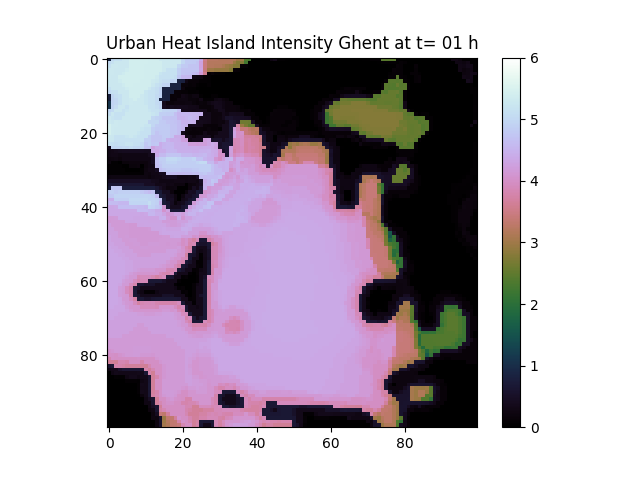
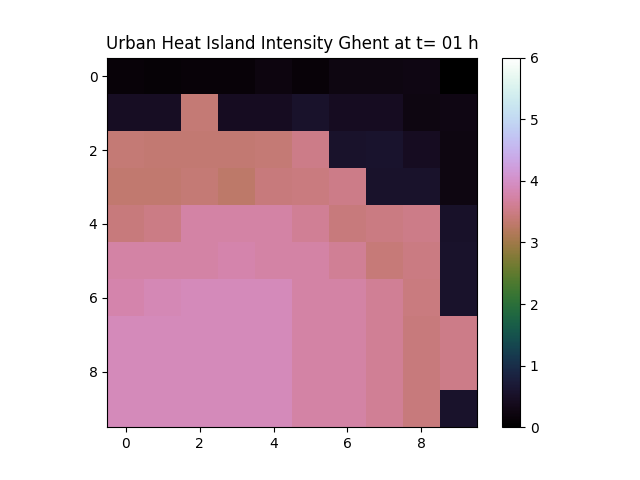
reducing image size for faster result

diff --git a/back_end/Demo_Code.py b/back_end/Demo_Code.py
@@ -23,7 +23,7 @@ subdirectory_name = "plots"
 subdirectory_path = os.path.join(current_directory, subdirectory_name)
 
 # Example usage
-image_path = os.path.join(subdirectory_path , "test_small.jpg")  # Replace with your PNG image path
+image_path = os.path.join(subdirectory_path , "test_smallv2.jpg")  # Replace with your PNG image path
 matrix = functions.png_to_matrix(image_path)   
 #cmap=functions.create_green_to_blue_cmap()
 #plt.figure()
@@ -35,8 +35,8 @@ fracs = functions.count_value_in_kernel2(matrix, 40)
 #%%
 
 
-rows = 100 
-cols = 100
+rows = 10 
+cols = 10
 
 col_to_keep = ['ALT', 'WATER', 'GREEN', 'IMPERVIOUS', 'WATER_1000', 'GREEN_1000',
        'IMPERVIOUS_1000', 'SHORT_WAVE_FROM_SKY_1HOUR', 't2m_inca',
@@ -80,7 +80,8 @@ plt.figure()
 functions.plot_heatmap(xd, 'cubehelix',vmin=0, vmax=6)
 plt.title('Urban Heat Island Intensity Ghent at t= 01 h')
 plt.savefig(os.path.join(subdirectory_path,'output.png'), format='png')
-plt.show()
+#plt.show()
+plt.close()
 
 end_time = time.time()
 
